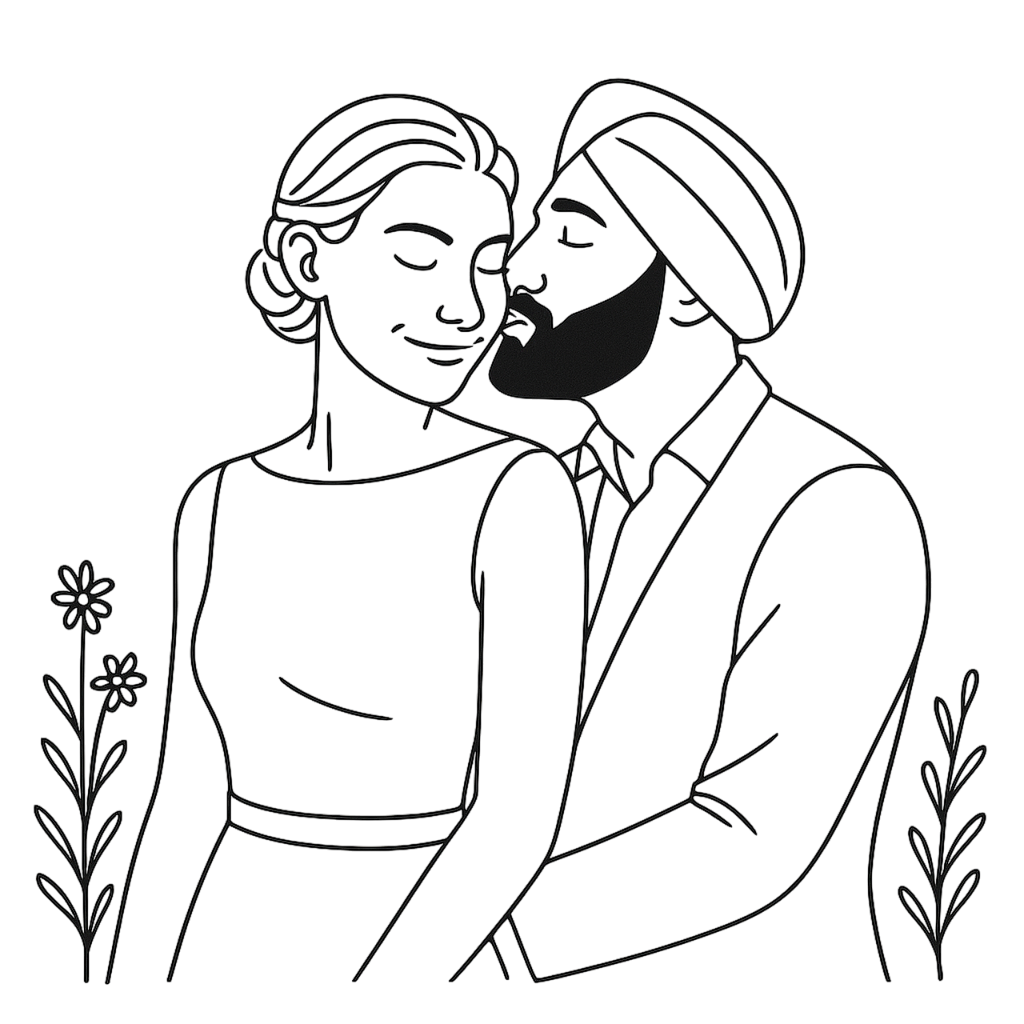
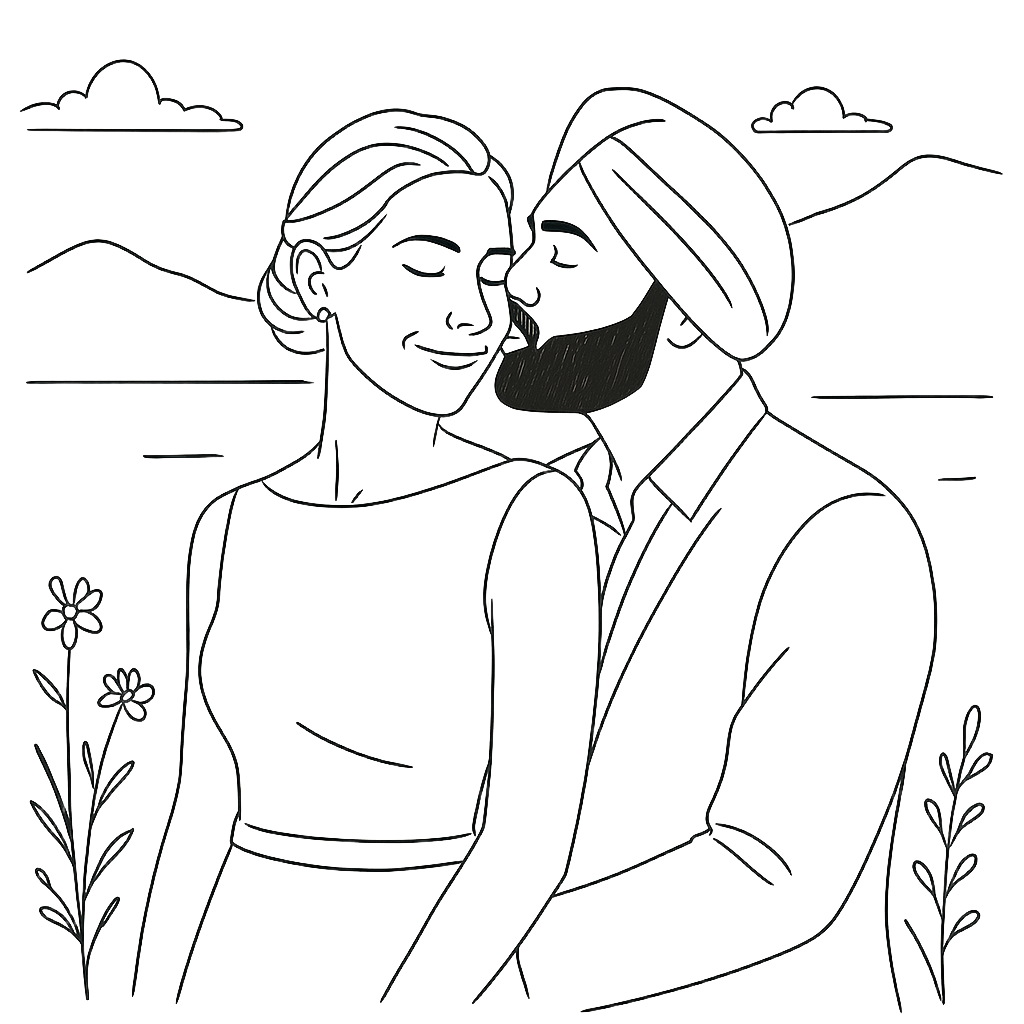
feat: update RsvpPage to use new background image and remove unused asset

diff --git a/src/pages/RsvpPage.jsx b/src/pages/RsvpPage.jsx
@@ -141,8 +141,8 @@ export default function RsvpPage() {
     return (
       <Background>
         <div className="bg-white bg-opacity-95 px-10 py-8 rounded-2xl shadow-lg backdrop-blur-sm border border-gray-300 relative">
-          <div className="absolute top-[-20px] left-[-20px] w-16 h-16 opacity-70" style={{ backgroundImage: `url('${import.meta.env.BASE_URL}leaxlove.png')`, backgroundPosition: 'center', backgroundSize: 'contain', backgroundRepeat: 'no-repeat' }}></div>
-          <div className="absolute bottom-[-20px] right-[-20px] w-16 h-16 opacity-70" style={{ backgroundImage: `url('${import.meta.env.BASE_URL}leaxlove.png')`, backgroundPosition: 'center', backgroundSize: 'contain', backgroundRepeat: 'no-repeat' }}></div>
+          <div className="absolute top-[-20px] left-[-20px] w-16 h-16 opacity-70" style={{ backgroundImage: `url('${import.meta.env.BASE_URL}Moment romantique minimaliste en noir et blanc-Photoroom.png')`, backgroundPosition: 'center', backgroundSize: 'contain', backgroundRepeat: 'no-repeat' }}></div>
+          <div className="absolute bottom-[-20px] right-[-20px] w-16 h-16 opacity-70" style={{ backgroundImage: `url('${import.meta.env.BASE_URL}Moment romantique minimaliste en noir et blanc-Photoroom.png')`, backgroundPosition: 'center', backgroundSize: 'contain', backgroundRepeat: 'no-repeat' }}></div>
           <h2 className="text-3xl text-center text-emerald-700 relative">
             <span className="relative z-10">{t('thankYouMessageTitle')}</span>
             <span className="absolute bottom-1 left-0 w-full h-1 bg-gray-200 opacity-50"></span>
@@ -184,7 +184,7 @@ export default function RsvpPage() {
           {/* Image Side: Appears on top on mobile (due to flex-col and DOM order), left on desktop (md:flex-row) */}
           <div className="w-full md:w-1/2 flex justify-center items-center p-4 sm:p-6 md:p-8 md:border-r border-gray-200">
             <img 
-              src={`${import.meta.env.BASE_URL}leaxlove.png`} 
+              src={`${import.meta.env.BASE_URL}Moment romantique minimaliste en noir et blanc-Photoroom.png`} 
               alt={t('altPareja')} 
               className="w-full max-w-[240px] sm:max-w-xs md:max-w-full rounded-2xl shadow-lg object-cover max-h-[200px] sm:max-h-[250px] md:max-h-none" 
               style={{
